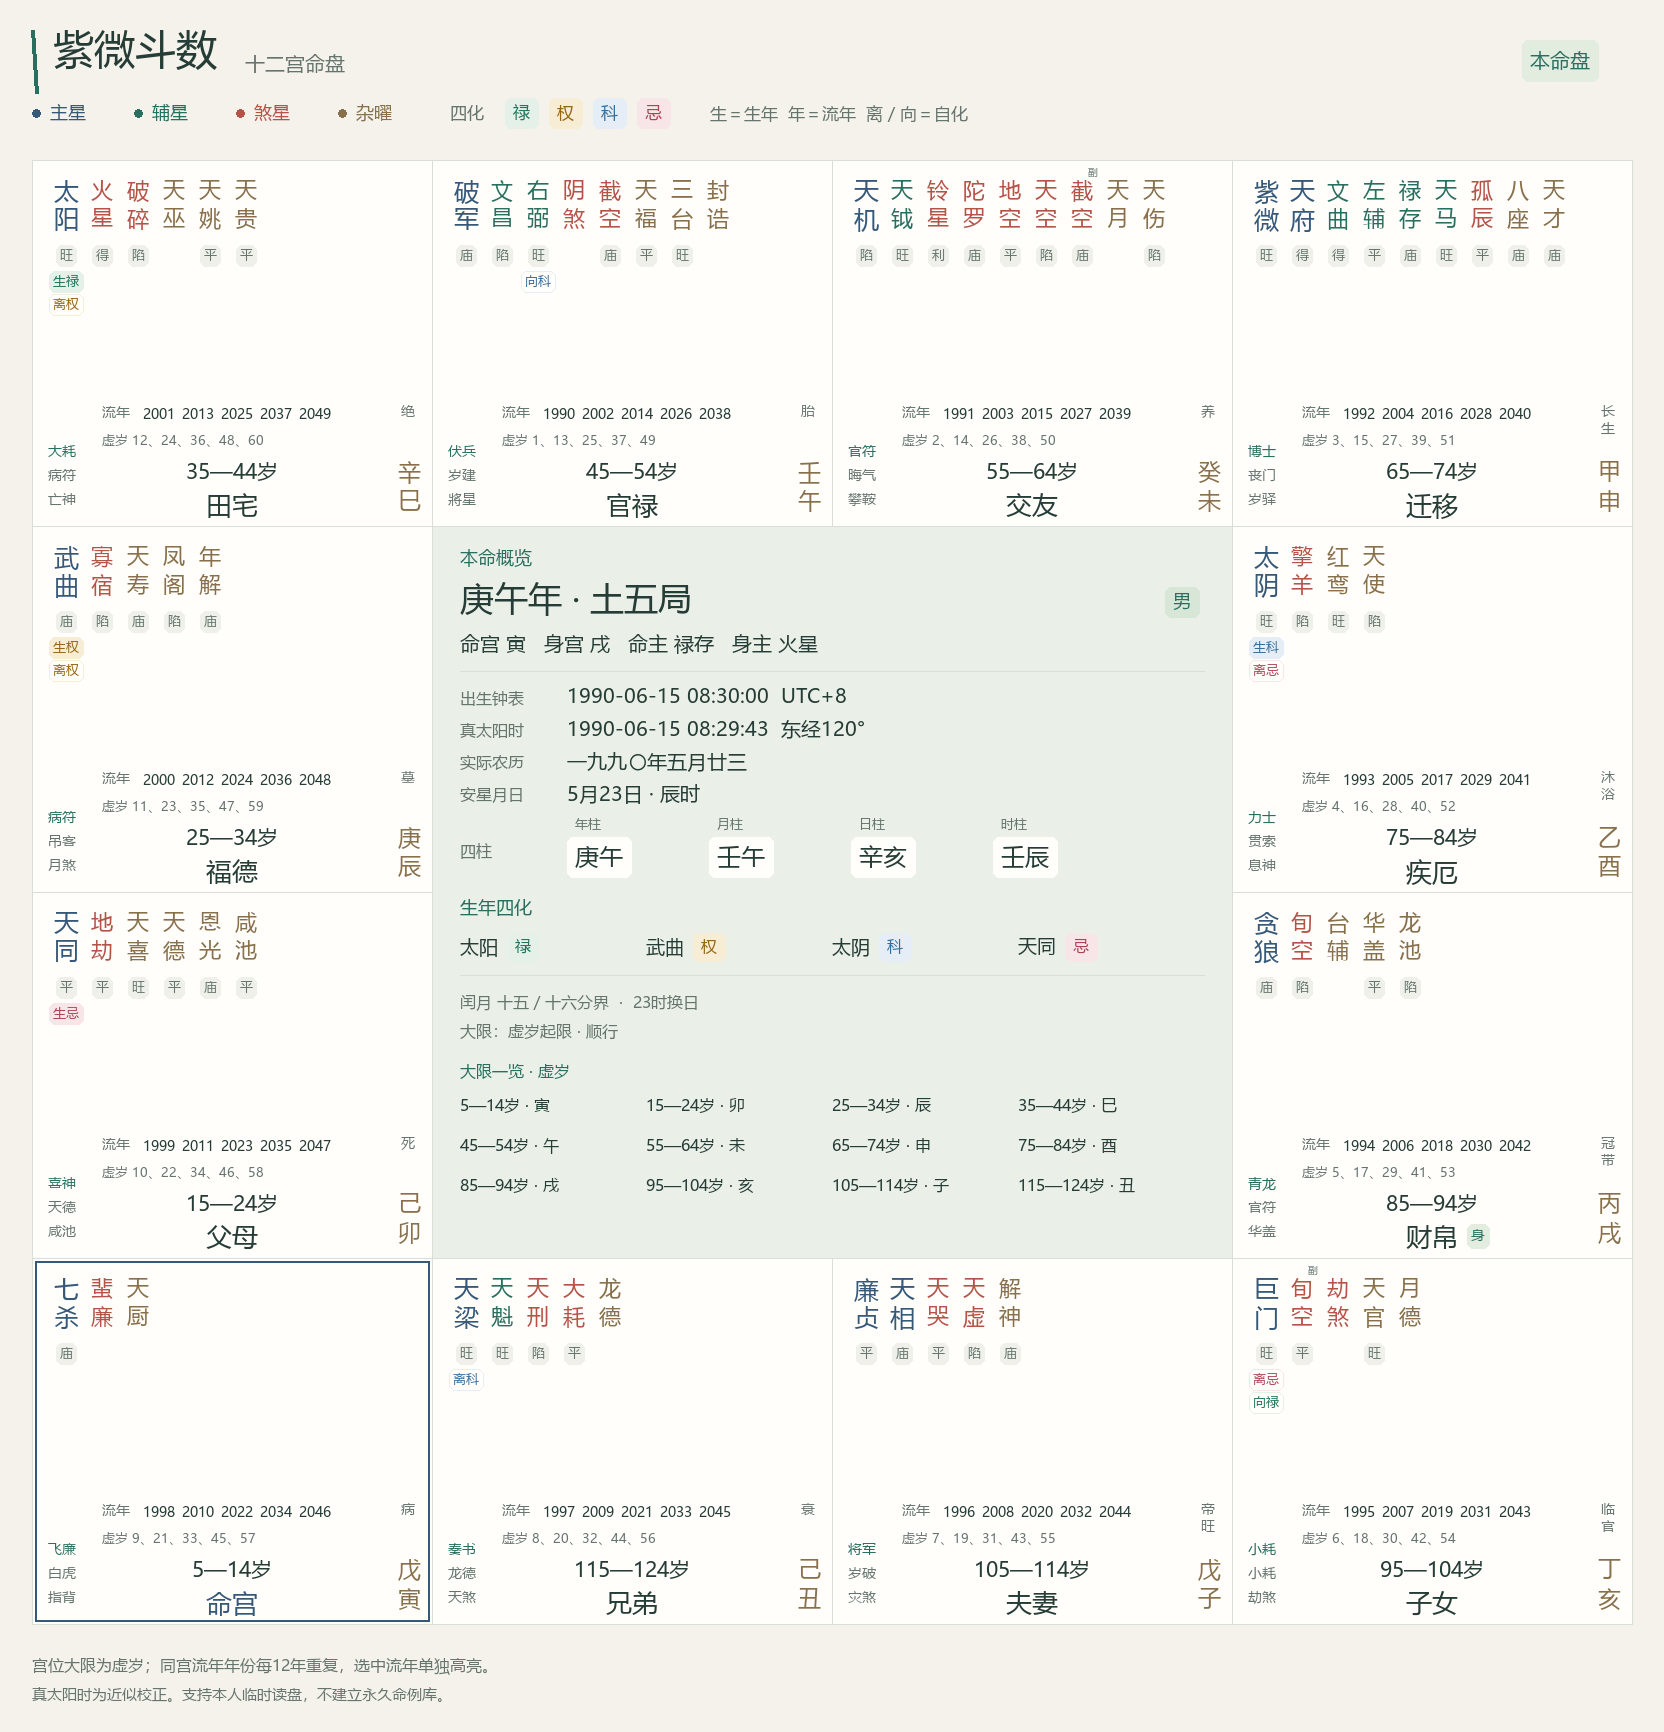
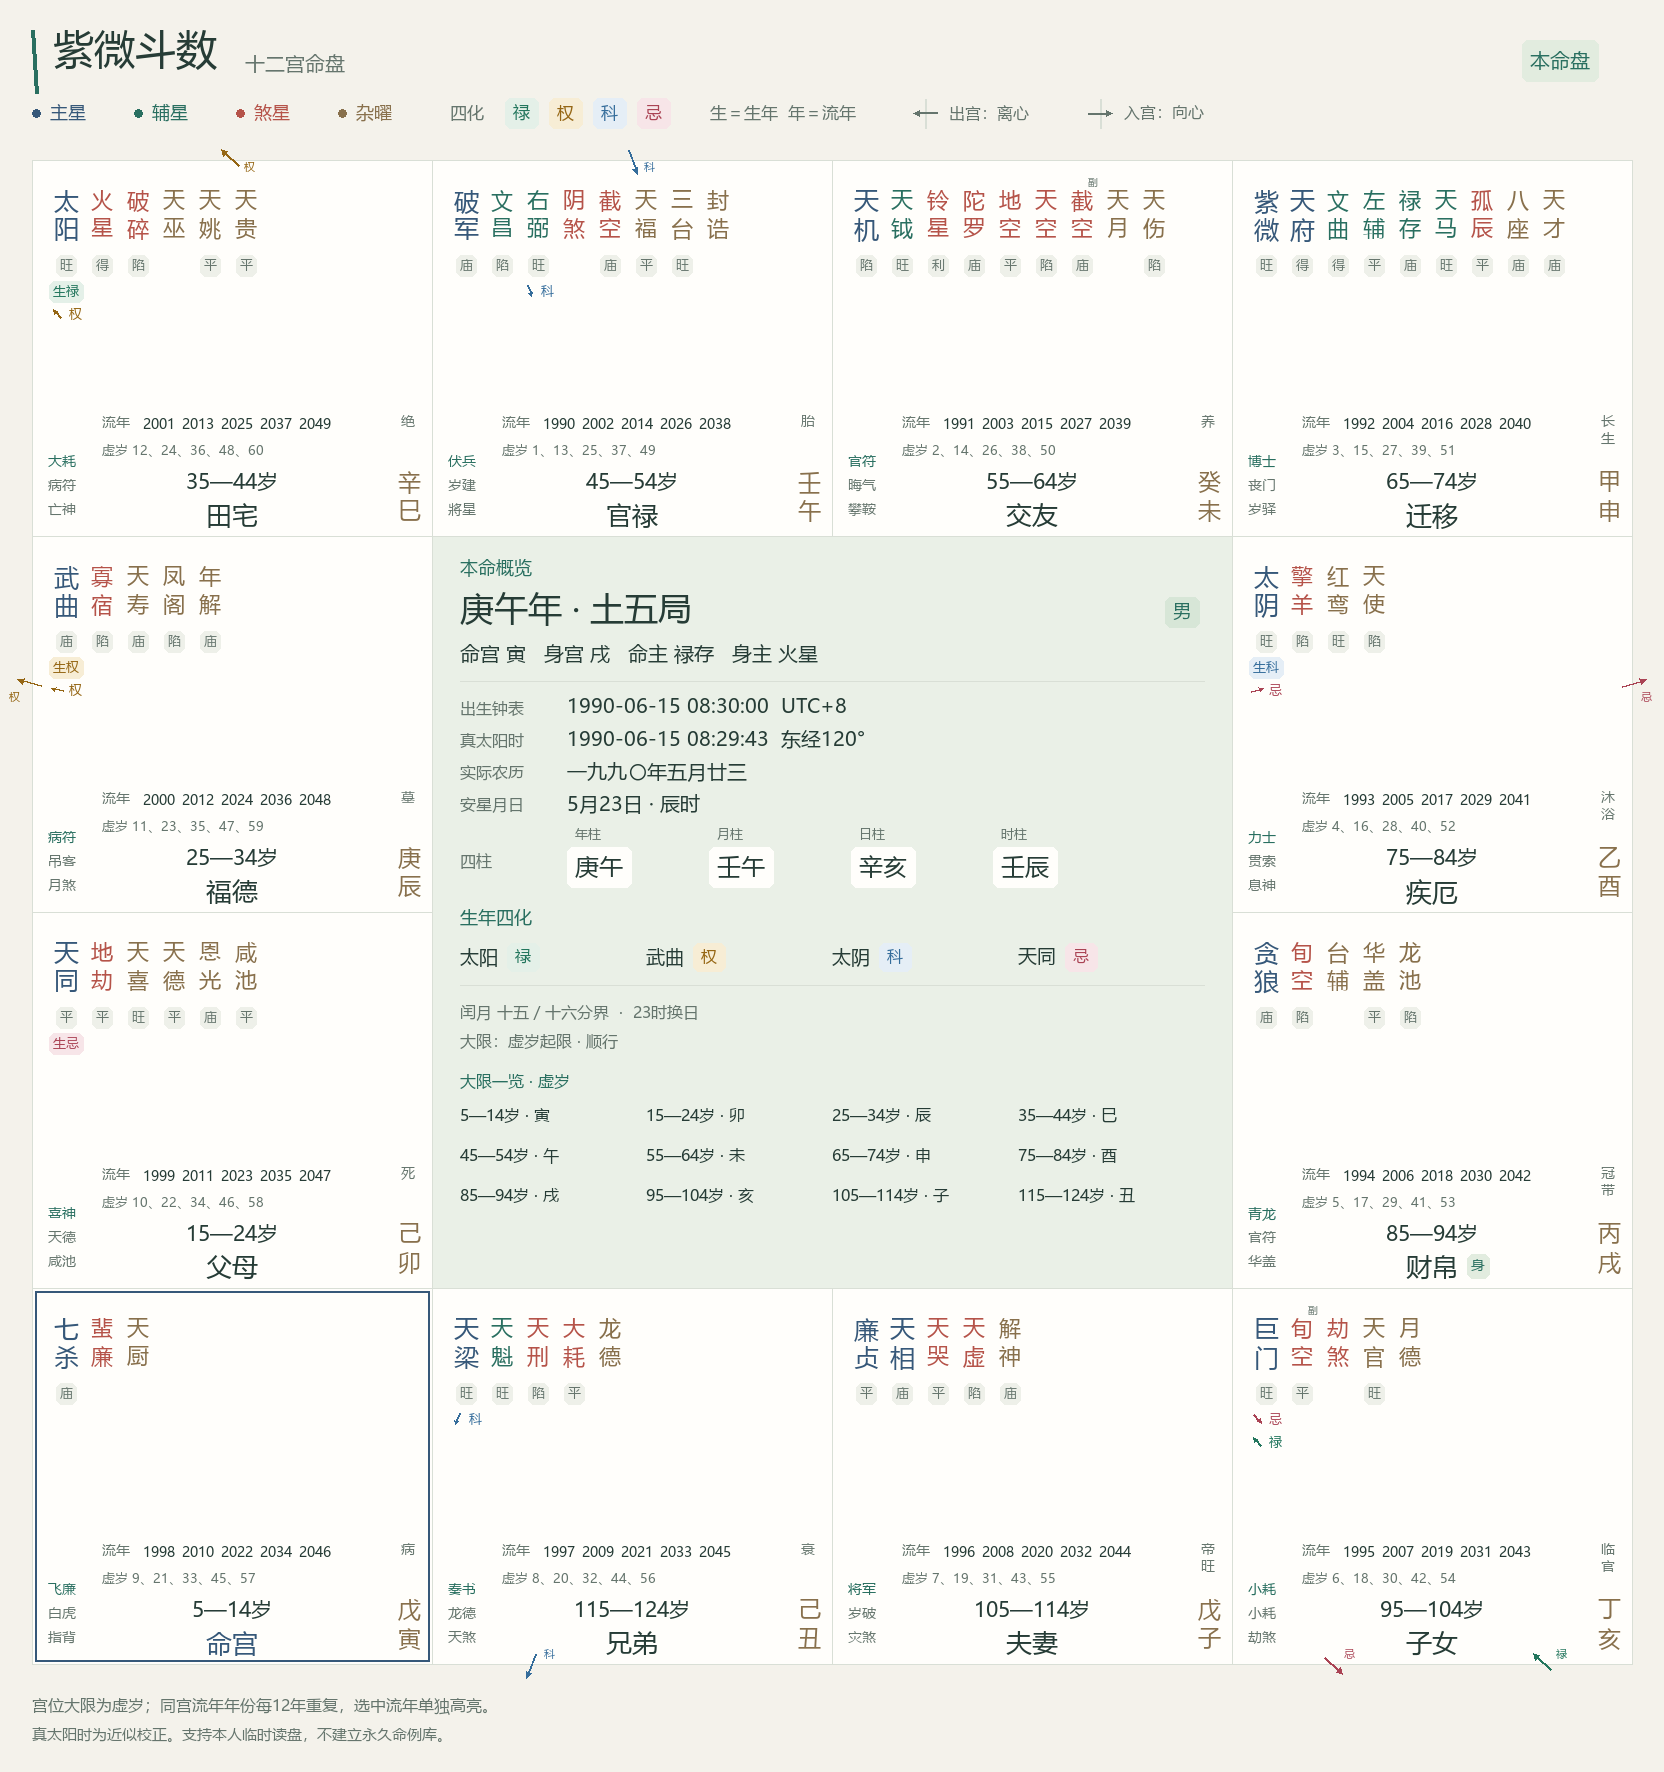
feat: 用箭头区分向心与离心四化
按十二宫位置绘制星曜旁及宫界方向箭头，四化颜色独立，调整留白避免遮挡宫名与密集星曜；同步预览、说明及版本至 1.3.2。

验证：260 项本地 pytest 通过，Ruff 格式与静态检查通过，人工核对本命、完整流盘及单宫 15 星布局；未进行真实 AstrBot 或 OneBot 集成。

diff --git a/modern_renderer.py b/modern_renderer.py
@@ -35,6 +35,74 @@ GRID = ((6, 7, 8, 9), (5, None, None, 10), (4, None, None, 11), (3, 2, 1, 12))
 CELL_WIDTH = 400
 MARGIN = 32
 GAP = 0
+PALACE_POSITIONS = {
+    branch: (row, col)
+    for row, cells in enumerate(GRID)
+    for col, branch in enumerate(cells)
+    if branch is not None
+}
+
+
+def self_hua_vector(branch, source, *, cell_height=CELL_WIDTH):
+    """Screen direction: outward leaves the chart, inward enters the palace."""
+    if source not in {"outward", "inward"}:
+        raise ValueError("未知自化方向")
+    row, col = PALACE_POSITIONS[branch]
+    dx, dy = (col - 1.5) * CELL_WIDTH, (row - 1.5) * cell_height
+    length = math.hypot(dx, dy)
+    sign = 1 if source == "outward" else -1
+    return sign * dx / length, sign * dy / length
+
+
+def self_hua_arrow_layout(stars, branch, x, y, height):
+    """Allocate separate border arrows, carrying the associated star and Hua."""
+    row, col = PALACE_POSITIONS[branch]
+    side = (
+        "top" if row == 0 else "bottom" if row == 3 else "left" if col == 0 else "right"
+    )
+    marks = [
+        (star, source, value)
+        for star in stars
+        for source, value in star["self_hua"].items()
+        if value
+    ]
+    arrows = []
+    for index, (star, source, value) in enumerate(marks):
+        lane = (index + 1) / (len(marks) + 1)
+        if side == "top":
+            anchor = (x + CELL_WIDTH * lane, y)
+            label = (anchor[0] + 12, y + 2)
+        elif side == "bottom":
+            # Reserve the middle for the palace title and body-palace badge.
+            left_count = (len(marks) + 1) // 2
+            if index < left_count:
+                offset = 60 + 80 * (index + 1) / (left_count + 1)
+            else:
+                offset = 280 + 64 * (index - left_count + 1) / (
+                    len(marks) - left_count + 1
+                )
+            anchor = (x + offset, y + height)
+            label = (anchor[0] + 12, y + height - 15)
+        else:
+            # Use the outer margin for labels, clear of dense star columns.
+            anchor = (
+                x if side == "left" else x + CELL_WIDTH,
+                y + 24 + (height - 128) * lane,
+            )
+            label = (x - 23 if side == "left" else x + CELL_WIDTH + 9, anchor[1] + 8)
+        dx, dy = self_hua_vector(branch, source, cell_height=height)
+        arrows.append(
+            {
+                "star_id": star["id"],
+                "instance_id": star["instance_id"],
+                "source": source,
+                "hua": value,
+                "start": (anchor[0] - dx * 10, anchor[1] - dy * 10),
+                "end": (anchor[0] + dx * 15, anchor[1] + dy * 15),
+                "label_position": label,
+            }
+        )
+    return arrows
 
 
 def display_category(star):
@@ -171,8 +239,25 @@ class Painter:
     def rule(self, x, y, width):
         self.draw.line((x, y, x + width, y), fill=BORDER)
 
+    def arrow(self, start, end, color, *, head=6, stroke=2):
+        dx, dy = end[0] - start[0], end[1] - start[1]
+        length = math.hypot(dx, dy)
+        if not length:
+            return
+        ux, uy = dx / length, dy / length
+        base = (end[0] - ux * head, end[1] - uy * head)
+        self.draw.line((start, base), fill=color, width=stroke)
+        self.draw.polygon(
+            (
+                end,
+                (base[0] - uy * head / 2, base[1] + ux * head / 2),
+                (base[0] + uy * head / 2, base[1] - ux * head / 2),
+            ),
+            fill=color,
+        )
 
-def _vertical_star(painter, star, x, y, color, step):
+
+def _vertical_star(painter, star, x, y, color, step, cell_height):
     name_size = min(25 if star["group"] == "major" else 22, int(step) - 5)
     for index, character in enumerate(star["name"]):
         painter.text(
@@ -193,6 +278,19 @@ def _vertical_star(painter, star, x, y, color, step):
     size = min(13, int((step - 8) / 2))
     for index, mark in enumerate(star["marks"]):
         color, fill = HUA_COLORS[mark["hua"]]
+        if mark["self"]:
+            dx, dy = self_hua_vector(
+                star["branch"], mark["source"], cell_height=cell_height
+            )
+            row_width = 18 + size
+            left = x + (step - row_width) / 2
+            cy = y + 101 + index * 23
+            cx = left + 7
+            painter.arrow(
+                (cx - dx * 6, cy - dy * 6), (cx + dx * 6, cy + dy * 6), color, head=4
+            )
+            painter.text(mark["hua"], left + 18, y + 95 + index * 23, size, color)
+            continue
         width = painter.font(size).getlength(mark["label"]) + 8
         painter.pill(
             mark["label"],
@@ -219,7 +317,13 @@ def _draw_palace(painter, item, chart, x, y, height):
         step = min(36, (CELL_WIDTH - 40) / len(row))
         for col, (star, color) in enumerate(row):
             _vertical_star(
-                painter, star, x + 16 + col * step, y + 20 + bank * 190, color, step
+                painter,
+                star,
+                x + 16 + col * step,
+                y + 30 + bank * 190,
+                color,
+                step,
+                height,
             )
     if chart["flow"]:
         painter.pill(
@@ -302,6 +406,12 @@ def _draw_palace(painter, item, chart, x, y, height):
             outline=JADE if selected else NAVY,
             width=2,
         )
+    for arrow in self_hua_arrow_layout(
+        [s for s, _ in stars], palace["branch"], x, y, height
+    ):
+        color, _ = HUA_COLORS[arrow["hua"]]
+        painter.arrow(arrow["start"], arrow["end"], color)
+        painter.text(arrow["hua"], *arrow["label_position"], 11, color)
 
 
 def _draw_hua_row(painter, row, x, y, cell=152, size=19):
@@ -429,7 +539,7 @@ def _draw_center(painter, chart, x, y, width, height):
 def render_chart(chart, font_path):
     view = make_chart_view(chart)
     max_banks = max(math.ceil(len(p["palace"]["stars"]) / 12) for p in view["palaces"])
-    cell_height = max(360, max_banks * 190 + 176)
+    cell_height = max(376, max_banks * 190 + 186)
     width = 2 * MARGIN + 4 * CELL_WIDTH
     grid_y = 160
     footer_y = grid_y + 4 * cell_height + 24
@@ -462,7 +572,15 @@ def render_chart(chart, font_path):
     for i, value in enumerate(HUA[1:]):
         color, fill = HUA_COLORS[value]
         painter.pill(value, lx + 65 + i * 44, 98, color, fill, size=17, height=30)
-    painter.text("生＝生年  年＝流年  离／向＝自化", lx + 270, 105, 17, MUTED)
+    painter.text("生＝生年  年＝流年", lx + 270, 105, 17, MUTED)
+    for index, (outward, label) in enumerate(
+        ((True, "出宫：离心"), (False, "入宫：向心"))
+    ):
+        ax = lx + 485 + index * 175
+        painter.draw.line((ax, 99, ax, 128), fill=BORDER, width=2)
+        start, end = ((ax + 12, 113), (ax - 12, 113))
+        painter.arrow(start if outward else end, end if outward else start, MUTED)
+        painter.text(label, ax + 24, 105, 16, MUTED)
     for row, cells in enumerate(GRID):
         for col, branch in enumerate(cells):
             if branch is not None:

diff --git a/tests/test_self_hua_arrows.py b/tests/test_self_hua_arrows.py
@@ -1,0 +1,82 @@
+import math
+from copy import deepcopy
+
+import pytest
+
+from astrbot_plugin_ziwei.commands import DEMO_BIRTH, parse_request
+from astrbot_plugin_ziwei.engine import build_chart
+from astrbot_plugin_ziwei.modern_renderer import (
+    CELL_WIDTH,
+    PALACE_POSITIONS,
+    self_hua_arrow_layout,
+    self_hua_vector,
+)
+
+
+def inside(point, x, y, height):
+    return x <= point[0] <= x + CELL_WIDTH and y <= point[1] <= y + height
+
+
+@pytest.mark.parametrize("branch", range(1, 13))
+@pytest.mark.parametrize("source", ["outward", "inward"])
+def test_arrows_cross_the_correct_palace_boundary(branch, source):
+    height = 376
+    row, col = PALACE_POSITIONS[branch]
+    x, y = 32 + col * CELL_WIDTH, 160 + row * height
+    star = {"id": 1, "instance_id": "test", "self_hua": {source: "禄"}}
+    arrow = self_hua_arrow_layout([star], branch, x, y, height)[0]
+    assert inside(arrow["start"], x, y, height) == (source == "outward")
+    assert inside(arrow["end"], x, y, height) == (source == "inward")
+    assert arrow["source"] == source and arrow["hua"] == "禄"
+    dx, dy = self_hua_vector(branch, source, cell_height=height)
+    assert math.isclose(math.hypot(dx, dy), 1)
+    assert 0 <= arrow["end"][0] <= 1664
+    assert 128 <= arrow["end"][1] <= 160 + 4 * height + 24
+
+
+def test_multiple_arrows_keep_star_associations_and_do_not_mutate_data():
+    stars = [
+        {
+            "id": i,
+            "instance_id": f"test-{i}",
+            "self_hua": {"outward": hua, "inward": hua},
+        }
+        for i, hua in enumerate(("禄", "权", "科", "忌"), 1)
+    ]
+    original = deepcopy(stars)
+    arrows = self_hua_arrow_layout(stars, 6, 32, 160, 376)
+    assert len(arrows) == 8
+    assert len({arrow["end"] for arrow in arrows}) == 8
+    assert {(a["star_id"], a["source"]) for a in arrows} == {
+        (i, source) for i in range(1, 5) for source in ("outward", "inward")
+    }
+    assert stars == original
+
+
+def test_real_chart_arrows_match_calculated_self_hua_count():
+    c = build_chart(parse_request(DEMO_BIRTH).birth)
+    before = deepcopy(c)
+    for p in c["palaces"]:
+        arrows = self_hua_arrow_layout(p["stars"], p["branch"], 32, 160, 376)
+        assert len(arrows) == sum(
+            bool(value) for star in p["stars"] for value in star["self_hua"].values()
+        )
+    assert c == before
+
+
+def test_bottom_arrows_leave_palace_title_and_body_badge_clear():
+    stars = [
+        {
+            "id": i,
+            "instance_id": f"test-{i}",
+            "self_hua": {"outward": hua, "inward": hua},
+        }
+        for i, hua in enumerate(("禄", "权", "科", "忌"), 1)
+    ]
+    for branch in (1, 2, 3, 12):
+        for star_list in (stars[:1], stars):
+            arrows = self_hua_arrow_layout(star_list, branch, 32, 160, 376)
+            for arrow in arrows:
+                # The centered palace title and adjacent body badge occupy this band.
+                for point in (arrow["start"], arrow["end"], arrow["label_position"]):
+                    assert point[0] < 32 + 164 or point[0] > 32 + 270

diff --git a/tests/test_project.py b/tests/test_project.py
@@ -14,7 +14,7 @@ ROOT = Path(__file__).resolve().parents[1]
 def test_metadata_and_config_are_loadable_and_consistent():
     meta = yaml.safe_load((ROOT / "metadata.yaml").read_text("utf-8"))
     assert meta["name"] == ROOT.name == "astrbot_plugin_ziwei"
-    assert meta["version"] == "1.3.1"
+    assert meta["version"] == "1.3.2"
     assert meta["repo"] == "https://github.com/RioMaker/astrbot_plugin_ziwei"
     tree = ast.parse((ROOT / "main.py").read_text("utf-8"))
     registration = next(

diff --git a/main.py b/main.py
@@ -17,7 +17,7 @@ from .renderer import Renderer, text_chart
 from .rules import RuleProfile
 
 
-@register("astrbot_plugin_ziwei", "Rio", "紫微斗数排盘", "1.3.1")
+@register("astrbot_plugin_ziwei", "Rio", "紫微斗数排盘", "1.3.2")
 class ZiweiPlugin(Star):
     def __init__(self, context: Context, config: AstrBotConfig):
         super().__init__(context)

diff --git a/VERIFICATION.md b/VERIFICATION.md
@@ -20,6 +20,8 @@
 
 1.3.1 连写格式验证：12／14 位日期时间与旧格式完全等价，分开输入的 4／6 位时刻正确解析；覆盖公农历、闰月、零点、末秒、非法日期与时刻、缺少性别及重复时刻。手动别名与 LLM 工具共用解析，白名单继续生效。
 
+1.3.2 自化箭头验证：十二宫分别检查离心由内向外、向心由外向内跨越对应宫界，箭头端点在画布范围内；多条箭头保留星曜实例与四化关联，底边不遮挡宫名和身宫标记，布局不改写计算数据。人工检查本命、完整流盘及单宫 15 星的密集盘，星曜旁与宫界均显示相同方向的彩色箭头，生年与流年徽标独立保留。
+
 ## 可复现命令
 
 ```sh
@@ -31,4 +33,4 @@ python scripts/preview.py "1990-06-15 08:30 男 流盘=2026-10-06 流时=10:00" 
 python scripts/preview.py "1990-06-15 08:30 男" --json --output .dev/chart.json
 ```
 
-1.3.1 最终结果：233 项测试全部通过，Ruff 格式与静态检查通过。文档预览采用虚构演示资料 `1990-06-15 08:30 男`。适配层和图片发送测试使用 AstrBot 的本地替身，没有启动真实 AstrBot，没有调用在线模型，也没有连接 OneBot 或线上消息平台。未完成原 AIR GUI 全盘比对；本地回归通过不等于线上验证或原软件完整兼容。
+1.3.2 最终结果：260 项测试全部通过，Ruff 格式与静态检查通过。文档预览采用虚构演示资料 `1990-06-15 08:30 男`。适配层和图片发送测试使用 AstrBot 的本地替身，没有启动真实 AstrBot，没有调用在线模型，也没有连接 OneBot 或线上消息平台。未完成原 AIR GUI 全盘比对；本地回归通过不等于线上验证或原软件完整兼容。

diff --git a/references/IMPLEMENTATION.md b/references/IMPLEMENTATION.md
@@ -12,6 +12,8 @@
 
 每宫最多展示五个同宫流年年份及虚岁：按年支落宫，每十二年重复。无流盘时从出生后的最早对应年开始；有流盘时取所选年附近的序列，确保选中年在其正确宫位出现。年份受支持区间和十二大限年龄上限约束。流年按目标农历年标注，春节前不能用目标公历年份替代。显示模型与绘制不改变原始排盘结果。
 
+1.3.2 将向心、离心自化绘为箭头，方向根据当前宫位相对盘心的位置确定：离心跨宫界指向外侧，向心反向指入宫内。星曜旁保留小箭头及四化字样，宫位外边缘显示对应箭头；箭头色与禄、权、科、忌一致。底边箭头避开中央宫名及身宫标记，左右边的文字使用画布外侧留白，密集星曜与多条箭头分别排布。箭头由线段和三角形绘制，不依赖字体中的箭头字符。计算字段、文字盘和 LLM JSON 的自化含义保持一致。
+
 参考图仅用于布局设计，未复制图中软件品牌、图像资源、字体、按钮或交互功能。
 
 参数解析兼容 12 位 `YYYYMMDDHHMM` 与 14 位 `YYYYMMDDHHMMSS`，先拆为日期和时刻再使用既有严格校验。分开输入时也支持 `HHMM`／`HHMMSS`。不会补造缺失时间或性别，手动指令、别名、LLM 工具和离线入口共用解析器。
